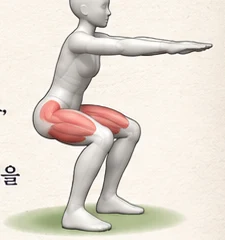
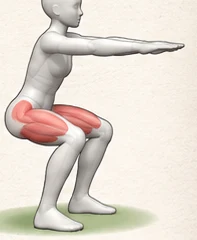
펼친 책 시안: 화면을 꽉 채우게, 넘기기 화살표는 양옆으로
Claude-Session: https://claude.ai/code/session_0159aZowXYkKqY5VdXLSz6jG

diff --git a/textbook/book_demo.html b/textbook/book_demo.html
@@ -21,19 +21,19 @@ button { font: inherit; color: inherit; cursor: pointer }
 .top .tb { border: 0; border-radius: 10px; background: #fff; color: var(--navy); font-weight: 700; font-size: 14px; padding: 6px 12px; white-space: nowrap }
 .top .tb[aria-pressed="true"] { background: var(--orange); color: #fff }
 .top .unit { font-weight: 700; font-size: 14px; white-space: nowrap; overflow: hidden; text-overflow: ellipsis; min-width: 0 }
-.tabs { display: flex; gap: 4px; margin-left: auto; background: rgba(255,255,255,.12); border-radius: 11px; padding: 3px }
+.tabs { display: flex; gap: 4px; margin-left: auto; margin-right: 4px; background: rgba(255,255,255,.12); border-radius: 11px; padding: 3px }
 .tabs button { border: 0; background: none; color: #c9d4ea; font-weight: 700; font-size: 13.5px; padding: 5px 12px; border-radius: 8px; white-space: nowrap }
 .tabs button[aria-pressed="true"] { background: var(--lime2); color: var(--navy) }
 .tabs button:disabled { opacity: .35; cursor: default }
 .stage { position: fixed; inset: 0; display: grid; place-items: center; perspective: 2600px; overflow: hidden;
-  padding: calc(52px + env(safe-area-inset-top)) max(10px, env(safe-area-inset-right)) calc(52px + env(safe-area-inset-bottom)) max(10px, env(safe-area-inset-left)) }
-.book { position: relative; height: min(calc(100vh - 112px), calc((100vw - 24px) / 1.6)); height: min(calc(100svh - 112px), calc((100vw - 24px) / 1.6)); aspect-ratio: 1.6;
+  padding: calc(50px + env(safe-area-inset-top)) max(6px, env(safe-area-inset-right)) max(6px, env(safe-area-inset-bottom)) max(6px, env(safe-area-inset-left)) }
+.book { position: relative; width: 100%; height: 100%;
   display: grid; grid-template-columns: 1fr 1fr; filter: drop-shadow(0 16px 26px rgba(0,0,0,.55)); transition: transform .35s ease }
 .book::before, .book::after { content: ""; position: absolute; top: 4px; bottom: -6px; width: 50%; background: repeating-linear-gradient(0deg, #e5dac0 0 1px, #f6efdc 1px 3px); z-index: -1; border-radius: 5px }
 .book::before { left: -6px } .book::after { right: -6px }
 .zoomMode .book { cursor: zoom-in } .zoomed .book { cursor: zoom-out } .zoomed .nav { display: none }
 .page { position: relative; overflow: hidden; display: flex; flex-direction: column; gap: 1.8%; padding: 0 5% 2.6%;
-  font-size: clamp(8px, min(1.12vw, 2.05vh), 17px); line-height: 1.6; background-color: var(--paper);
+  font-size: clamp(8px, min(1.05vw, 2.25vh), 18px); line-height: 1.6; background-color: var(--paper);
   background-image: radial-gradient(rgba(120,90,40,.035) 1px, transparent 1px); background-size: 4px 4px }
 .page.l { border-radius: 6px 0 0 6px; box-shadow: inset -26px 0 30px -18px rgba(90,60,20,.38) }
 .page.r { border-radius: 0 6px 6px 0; box-shadow: inset 26px 0 30px -18px rgba(90,60,20,.38) }
@@ -50,7 +50,7 @@ h1::after { content: ""; position: absolute; left: 0; bottom: 0; width: 2.4em; h
 .row { display: flex; align-items: center; gap: .8em; flex-wrap: wrap } .row > span { color: var(--mute); font-size: .95em }
 p { word-break: keep-all } mark { background: var(--lime); color: inherit; padding: 0 .15em; border-radius: .2em; font-weight: 700 }
 .flow { overflow: hidden; flex: none } .page > * { flex-shrink: 0 } .flow p + p { margin-top: .4em }
-.fig { position: relative; float: right; width: 29%; margin: -.4em 0 .4em .8em; cursor: pointer; border: 0; background: none; padding: 0; text-align: center }
+.fig { position: relative; float: right; width: 29%; max-width: 11em; margin: -.4em 0 .4em .8em; cursor: pointer; border: 0; background: none; padding: 0; text-align: center }
 .fig img { width: 100%; display: block; mix-blend-mode: multiply }
 .fig .b3 { position: absolute; right: 0; top: 0; font: 700 .78em var(--sans); color: #fff; background: var(--navy); border-radius: .4em; padding: .15em .55em }
 .fig.card { width: 32%; border: 1.5px solid var(--line); border-radius: .8em; background: #fbf7ee; padding: .5em .5em .6em; margin-top: 0 }
@@ -69,9 +69,9 @@ p { word-break: keep-all } mark { background: var(--lime); color: inherit; paddi
 .mv button { display: grid; grid-template-columns: 1fr auto; gap: .2em .8em; align-items: center; text-align: left; border: 1px solid var(--line); background: #fffdf7; border-radius: .8em; padding: .3em .7em; font-family: var(--serif); line-height: 1.4 }
 .mv button strong { font: 700 1.05em var(--sans); color: var(--navy) } .mv button small { grid-column: 1; color: var(--mute); font-size: .9em }
 .mv button em { grid-row: 1 / 3; grid-column: 2; font: 700 .8em var(--sans); font-style: normal; color: #fff; background: var(--navy); border-radius: .4em; padding: .2em .6em }
-.nav { position: fixed; left: 0; right: 0; bottom: max(8px, env(safe-area-inset-bottom)); display: flex; justify-content: center; align-items: center; gap: 12px; font-family: var(--sans); z-index: 3 }
-.nav button { border: 0; border-radius: 99px; background: rgba(253,248,236,.94); color: var(--navy); font-weight: 700; font-size: 14px; padding: 7px 16px }
-.nav button:disabled { opacity: .35 } .nav span { color: #f3e7cc; font-size: 13px; font-weight: 600 }
+.nav { position: fixed; left: 0; right: 0; top: 50%; display: flex; justify-content: space-between; align-items: center; pointer-events: none; font-family: var(--sans); z-index: 3; padding: 0 max(2px, env(safe-area-inset-right)) 0 max(2px, env(safe-area-inset-left)) }
+.nav button { pointer-events: auto; border: 0; width: 34px; height: 54px; border-radius: 10px; background: rgba(20,40,75,.55); color: #fff; font-weight: 700; font-size: 22px; padding: 0 }
+.nav button:disabled { opacity: 0 } .nav span { display: none } .pgn { font-size: 12.5px; color: #c9d4ea; font-weight: 600; white-space: nowrap }
 .zhint { position: fixed; top: calc(56px + env(safe-area-inset-top)); left: 50%; transform: translateX(-50%); z-index: 3; background: var(--orange); color: #fff; font: 700 13px var(--sans); padding: 6px 14px; border-radius: 99px; white-space: nowrap }
 .flip { animation: flip .5s ease-in-out } @keyframes flip { 50% { transform: rotateY(-6deg) scale(.985) } }
 .tocp { position: fixed; inset: 0; z-index: 8; background: rgba(10,16,28,.55); display: flex }
@@ -88,10 +88,10 @@ p { word-break: keep-all } mark { background: var(--lime); color: inherit; paddi
 .v3d header button { border: 0; border-radius: 10px; background: var(--lime2); color: var(--navy); font-weight: 700; font-size: 15px; padding: 8px 14px }
 .v3d iframe { width: 100%; height: 100%; border: 0; background: #f4eedf }
 @media (orientation: portrait) {
-  .book { height: auto; width: min(100%, calc((100svh - 112px) * .68)); aspect-ratio: .68; grid-template-columns: 1fr }
-  .page { font-size: clamp(10px, min(3.05vw, 1.75vh), 16px); border-radius: 6px !important; box-shadow: none !important }
+  .book { grid-template-columns: 1fr }
+  .page { font-size: clamp(10px, min(3.3vw, 1.9vh), 17px); border-radius: 6px !important; box-shadow: none !important }
   .book::after { display: none } .book::before { left: 4px; width: calc(100% - 8px) }
-  .top .unit { display: none } .tabs button { padding: 5px 8px; font-size: 13px } .top .tb { padding: 6px 9px }
+  .top .unit, .pgn { display: none } .tabs button { padding: 5px 8px; font-size: 13px } .top .tb { padding: 6px 9px }
 }
 @media (prefers-reduced-motion: reduce) { .flip { animation: none } .book { transition: none } }
 </style>
@@ -99,10 +99,10 @@ p { word-break: keep-all } mark { background: var(--lime); color: inherit; paddi
 <body>
 <header class="top"><button type="button" class="tb" id="tocBtn">☰ 차례</button><span class="unit" id="unitName"></span>
   <div class="tabs" id="tabs"><button type="button" data-g="기본">기본</button><button type="button" data-g="응용">응용</button><button type="button" data-g="일상">일상</button><button type="button" data-g="스포츠">스포츠</button></div>
-  <button type="button" class="tb" id="zoomBtn" aria-pressed="false" aria-label="돋보기">🔍</button></header>
+  <span class="pgn" id="pg"></span><button type="button" class="tb" id="zoomBtn" aria-pressed="false" aria-label="돋보기">🔍</button></header>
 <div class="stage" id="stage"><div class="book" id="book"></div></div>
 <p class="zhint" id="zhint" hidden></p>
-<nav class="nav"><button type="button" id="prev">‹ 앞쪽</button><span id="pg"></span><button type="button" id="next">뒤쪽 ›</button></nav>
+<nav class="nav"><button type="button" id="prev" aria-label="앞쪽">‹</button><button type="button" id="next" aria-label="뒤쪽">›</button></nav>
 <div class="tocp" id="tocp" hidden><div class="in" id="tocIn"></div></div>
 <div class="v3d" id="v3d" hidden><header><b id="vTitle"></b><button type="button" id="vClose">✕ 책으로 돌아가기</button></header><iframe id="vFrame" title="3D 보기"></iframe></div>
 <script>
